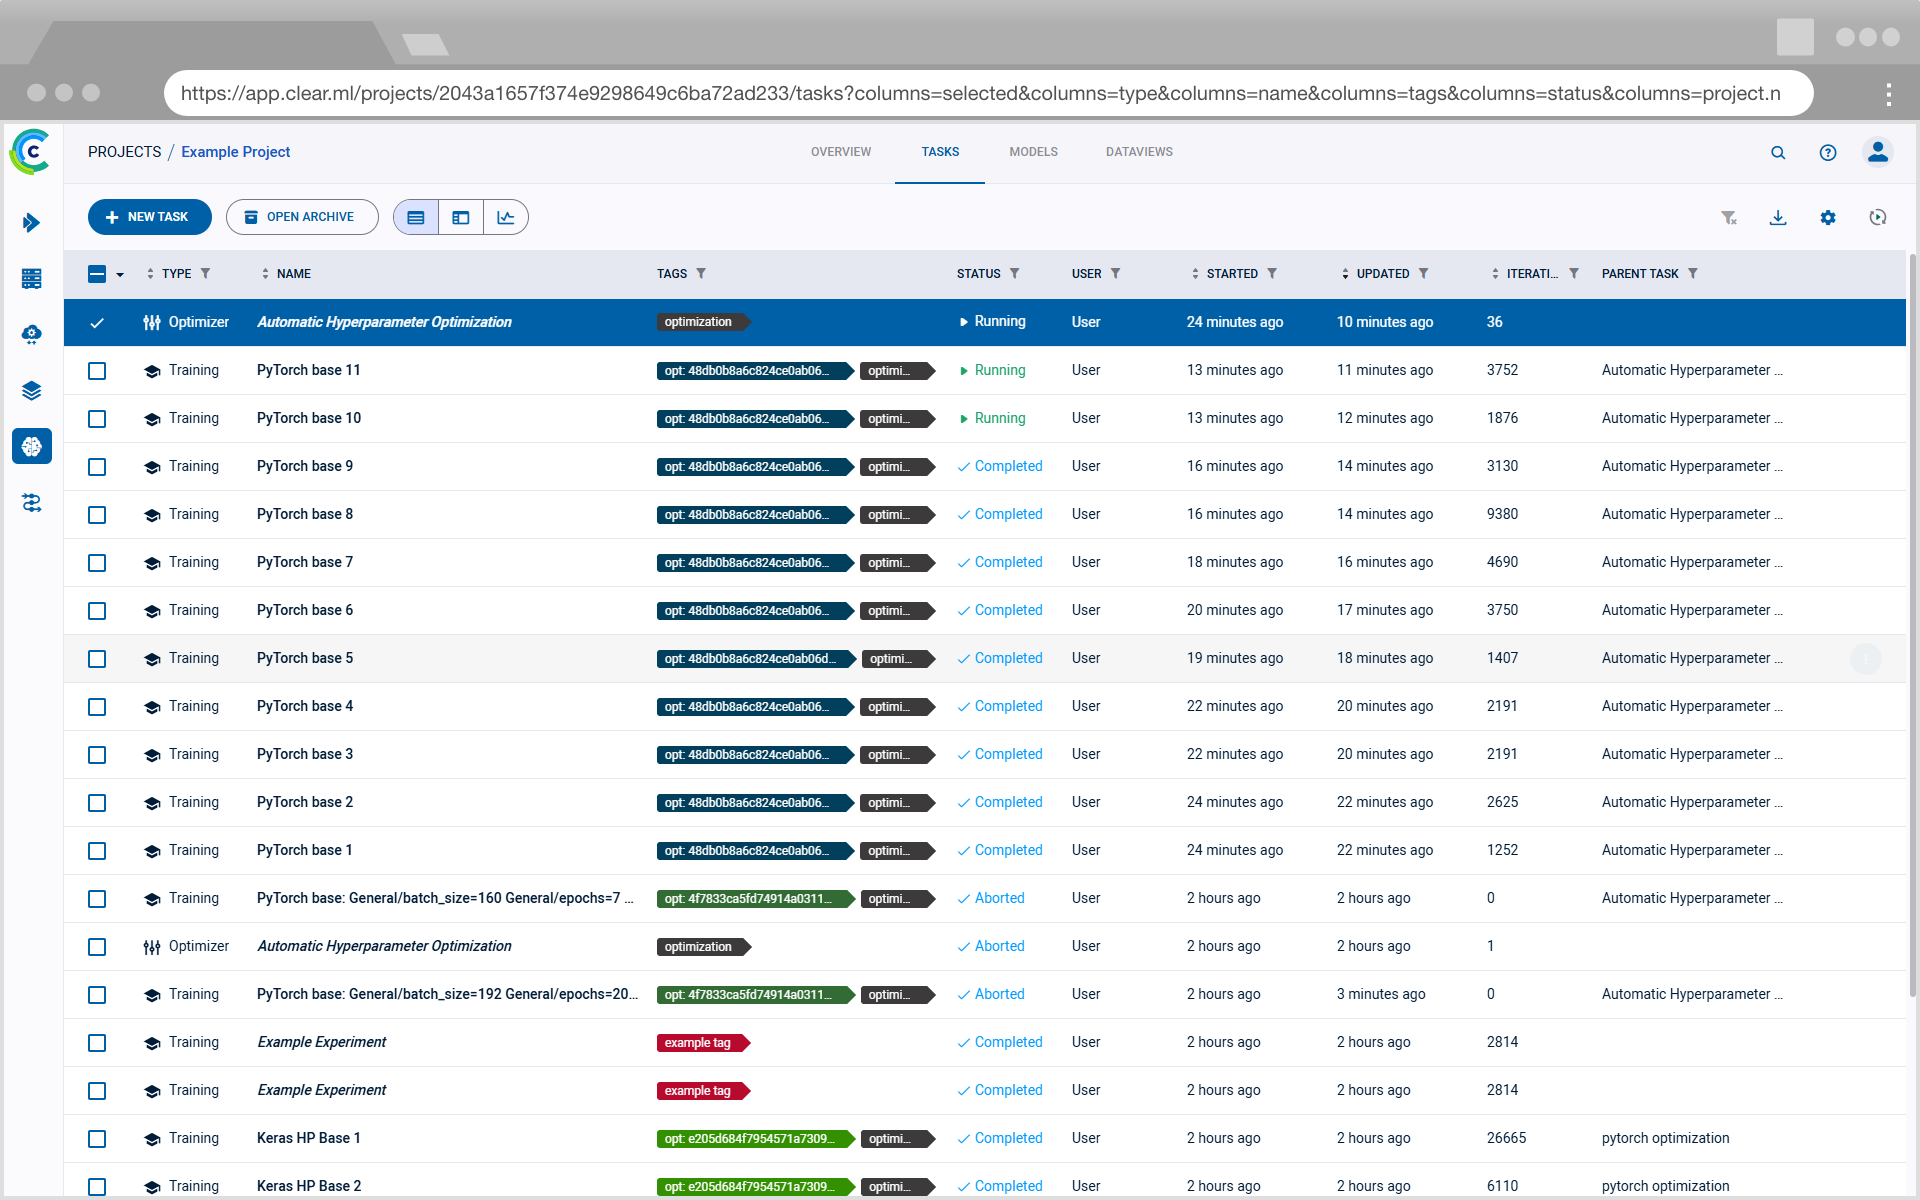
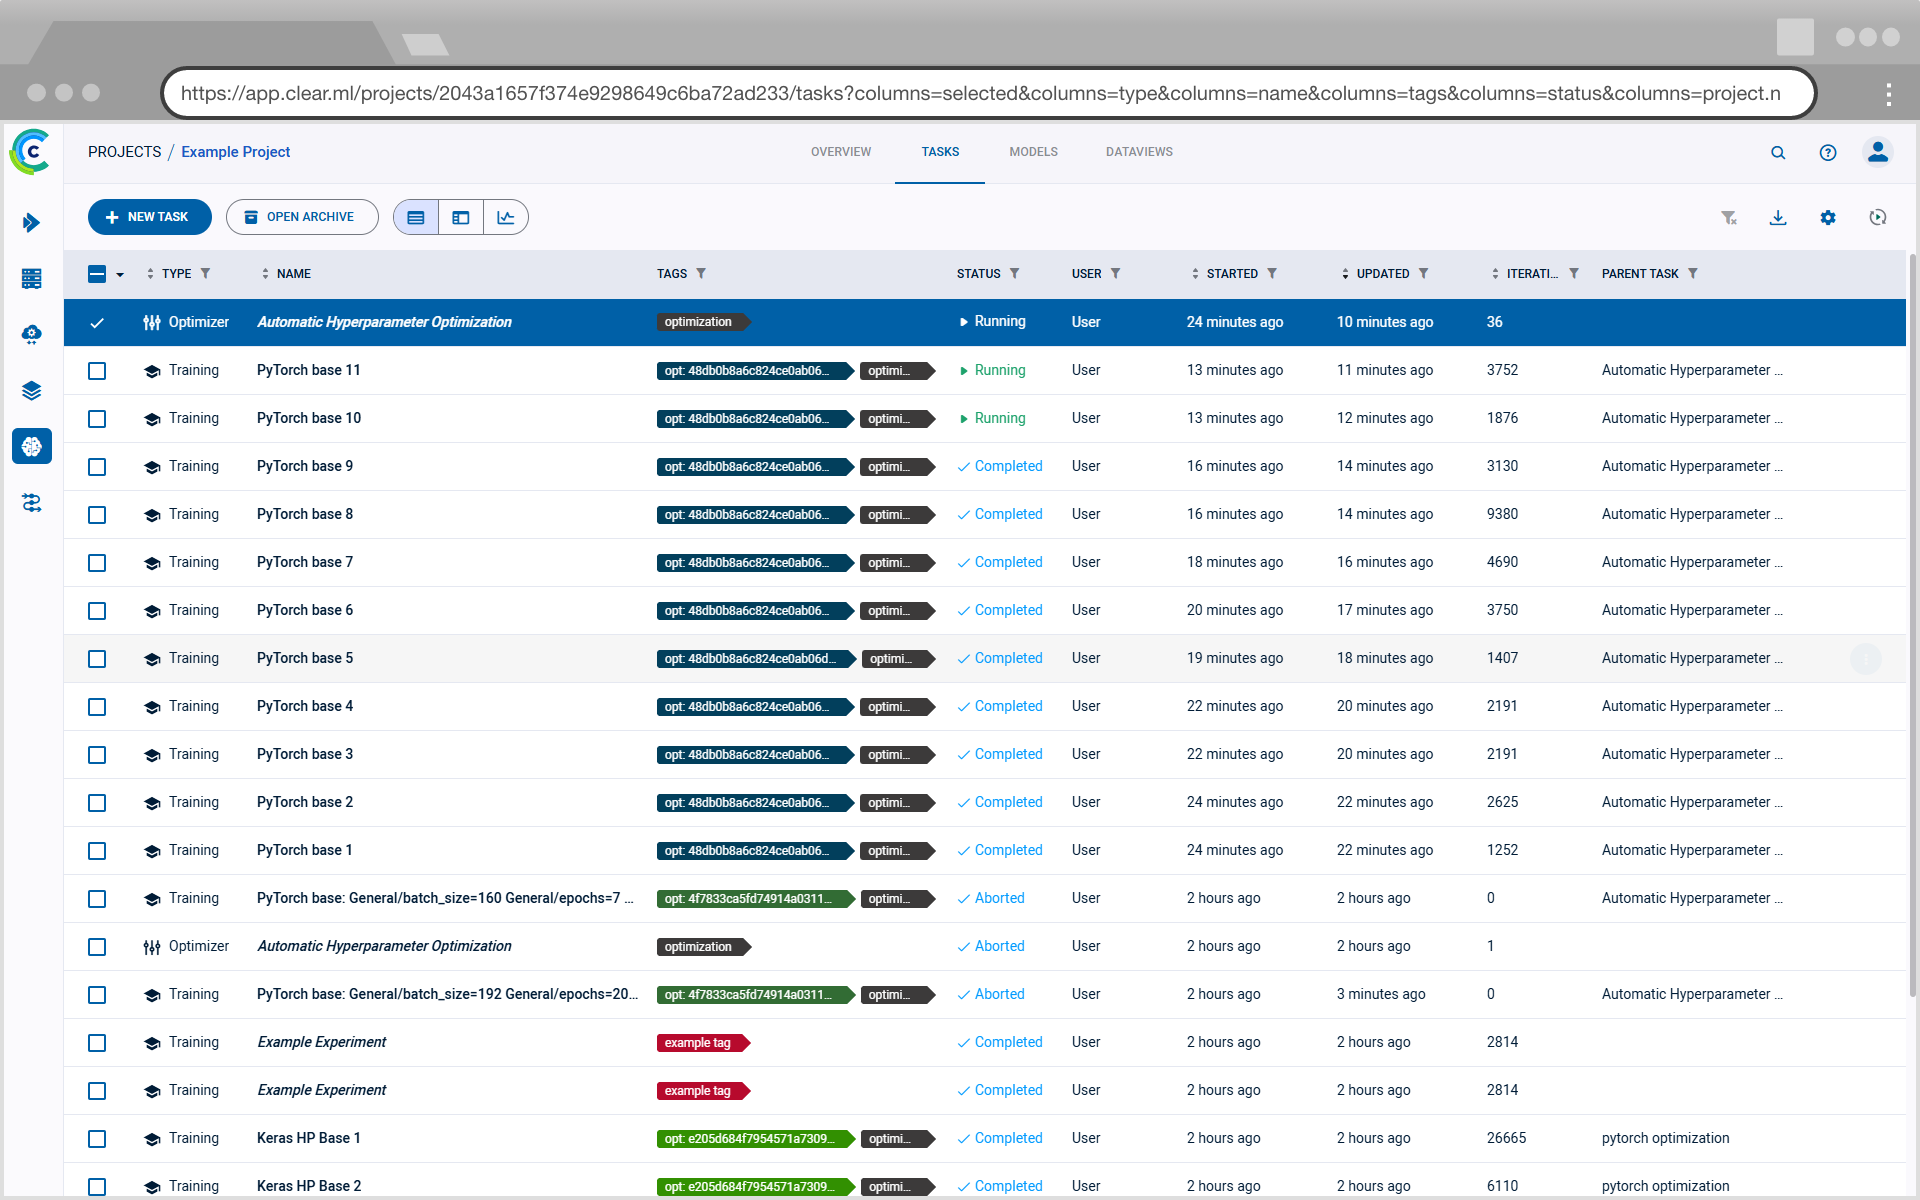
Small image edits (#1030)

Changed region(s): [[0.0938, 0.0925, 0.9375, 0.1233], [0.0938, 0.0308, 0.9375, 0.0617]]

diff --git a/docs/webapp/webapp_project_overview.md b/docs/webapp/webapp_project_overview.md
@@ -7,8 +7,8 @@ that can show a snapshot of specified metrics' values across the project's tasks
 project's description. When either overview option is utilized, the **OVERVIEW** tab becomes the project's landing page, 
 meaning that it's the first thing that is seen when opening the project. 
 
-
-![Project overview](../img/webapp_project_overview.png)
+![Project overview](../img/webapp_project_overview.png#light-mode-only)
+![Project overview](../img/webapp_project_overview_dark.png#dark-mode-only)
 
 ## Metric Snapshot
 
